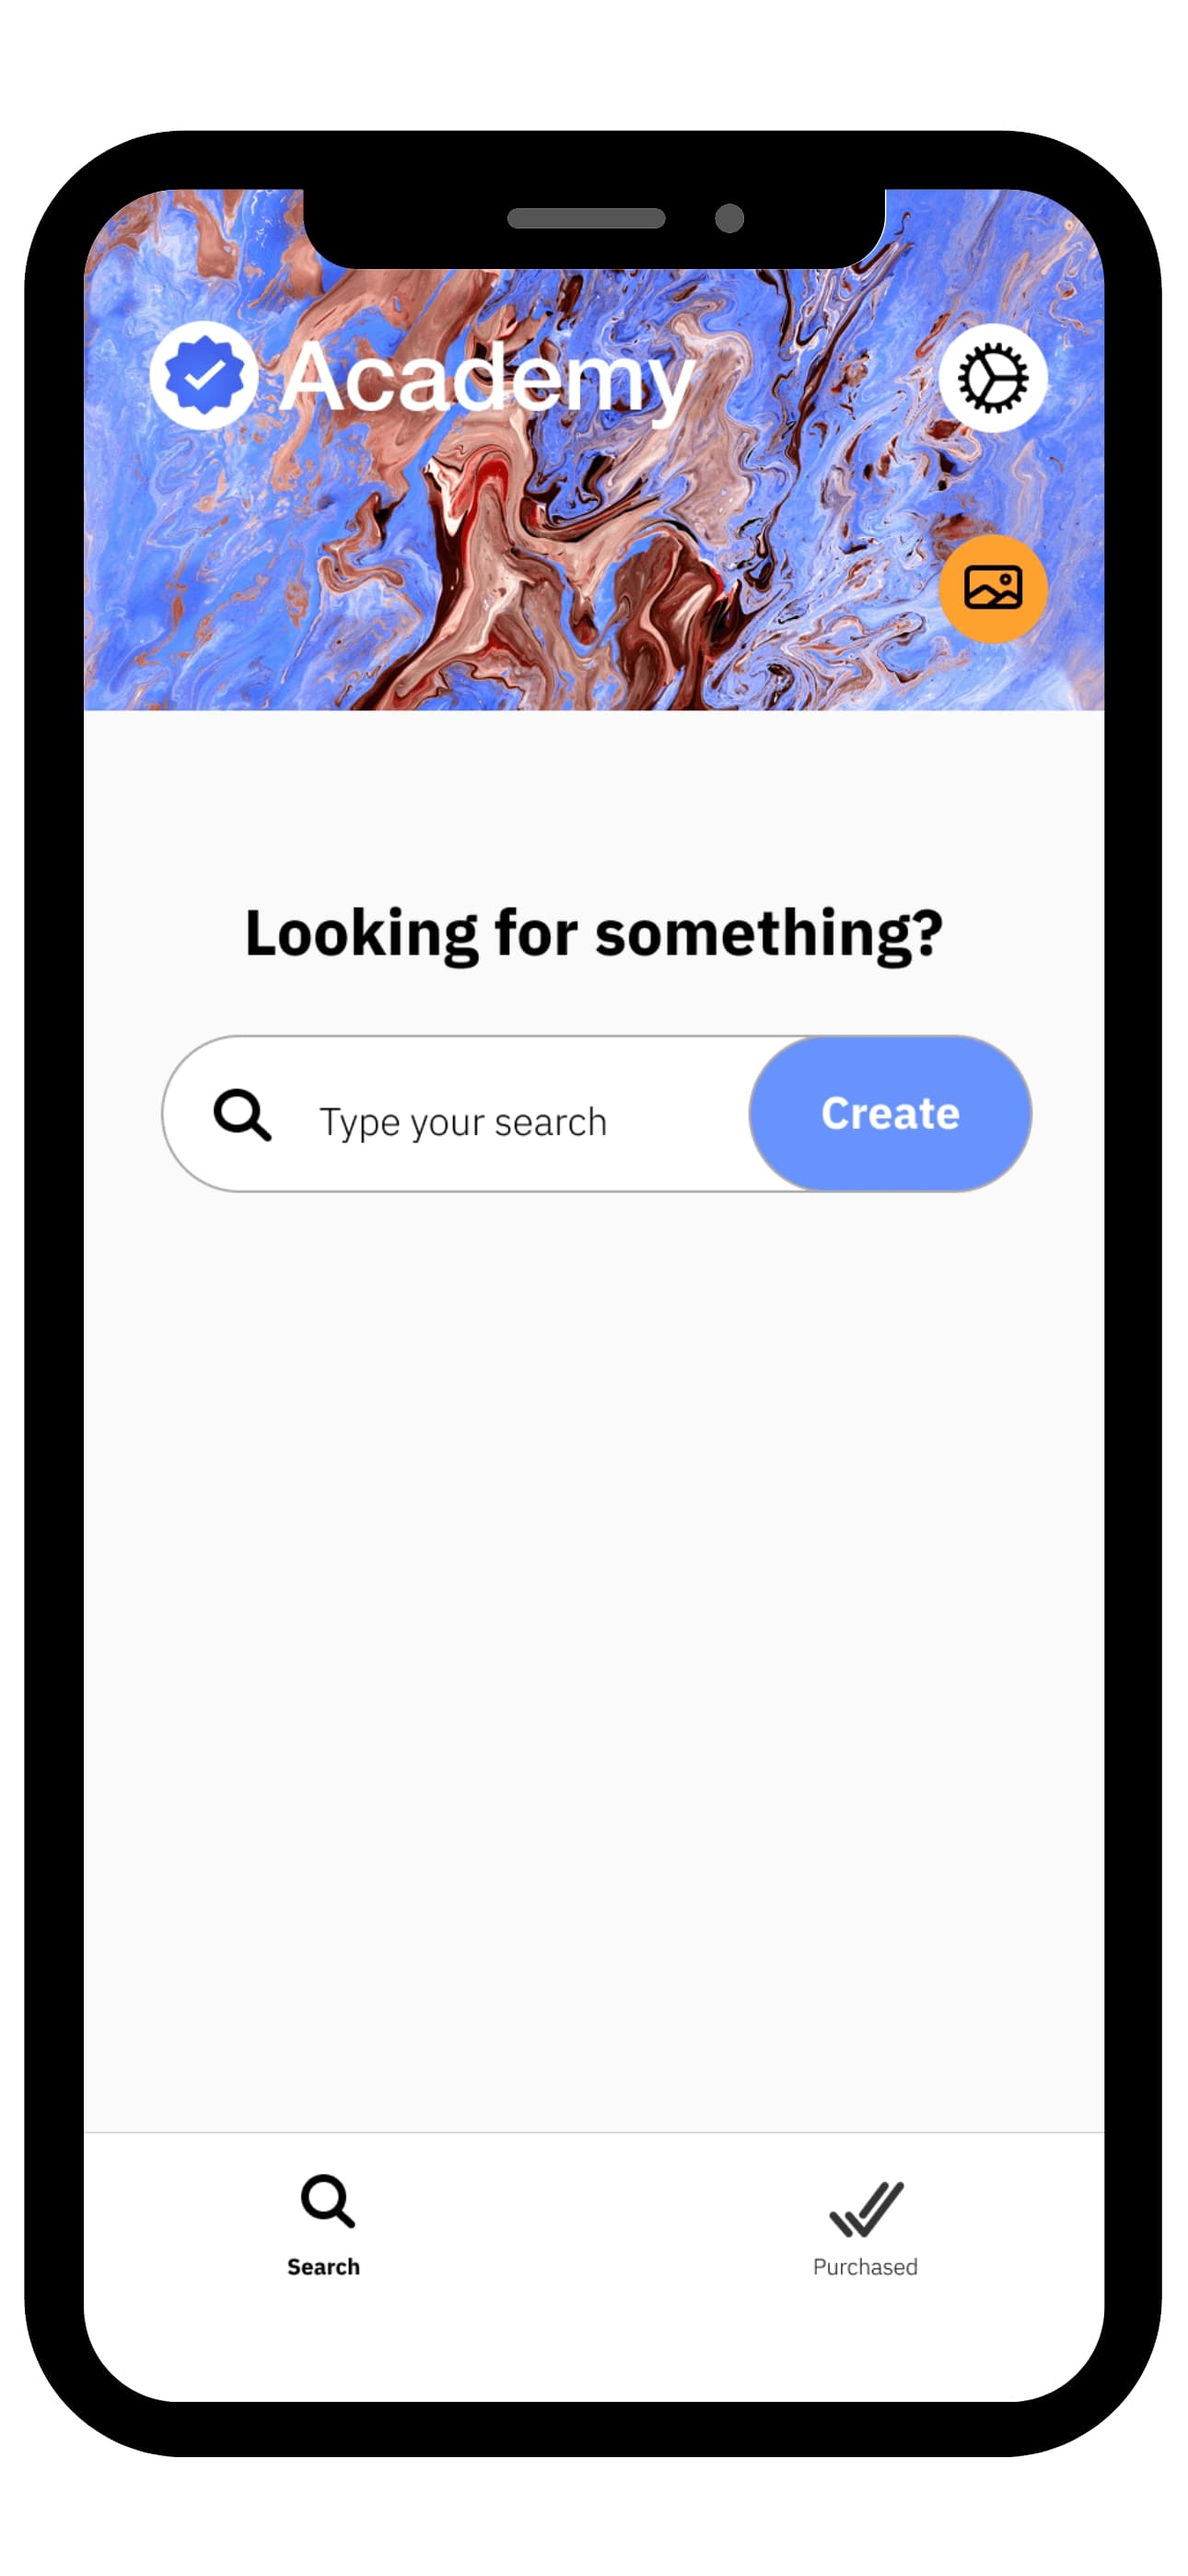
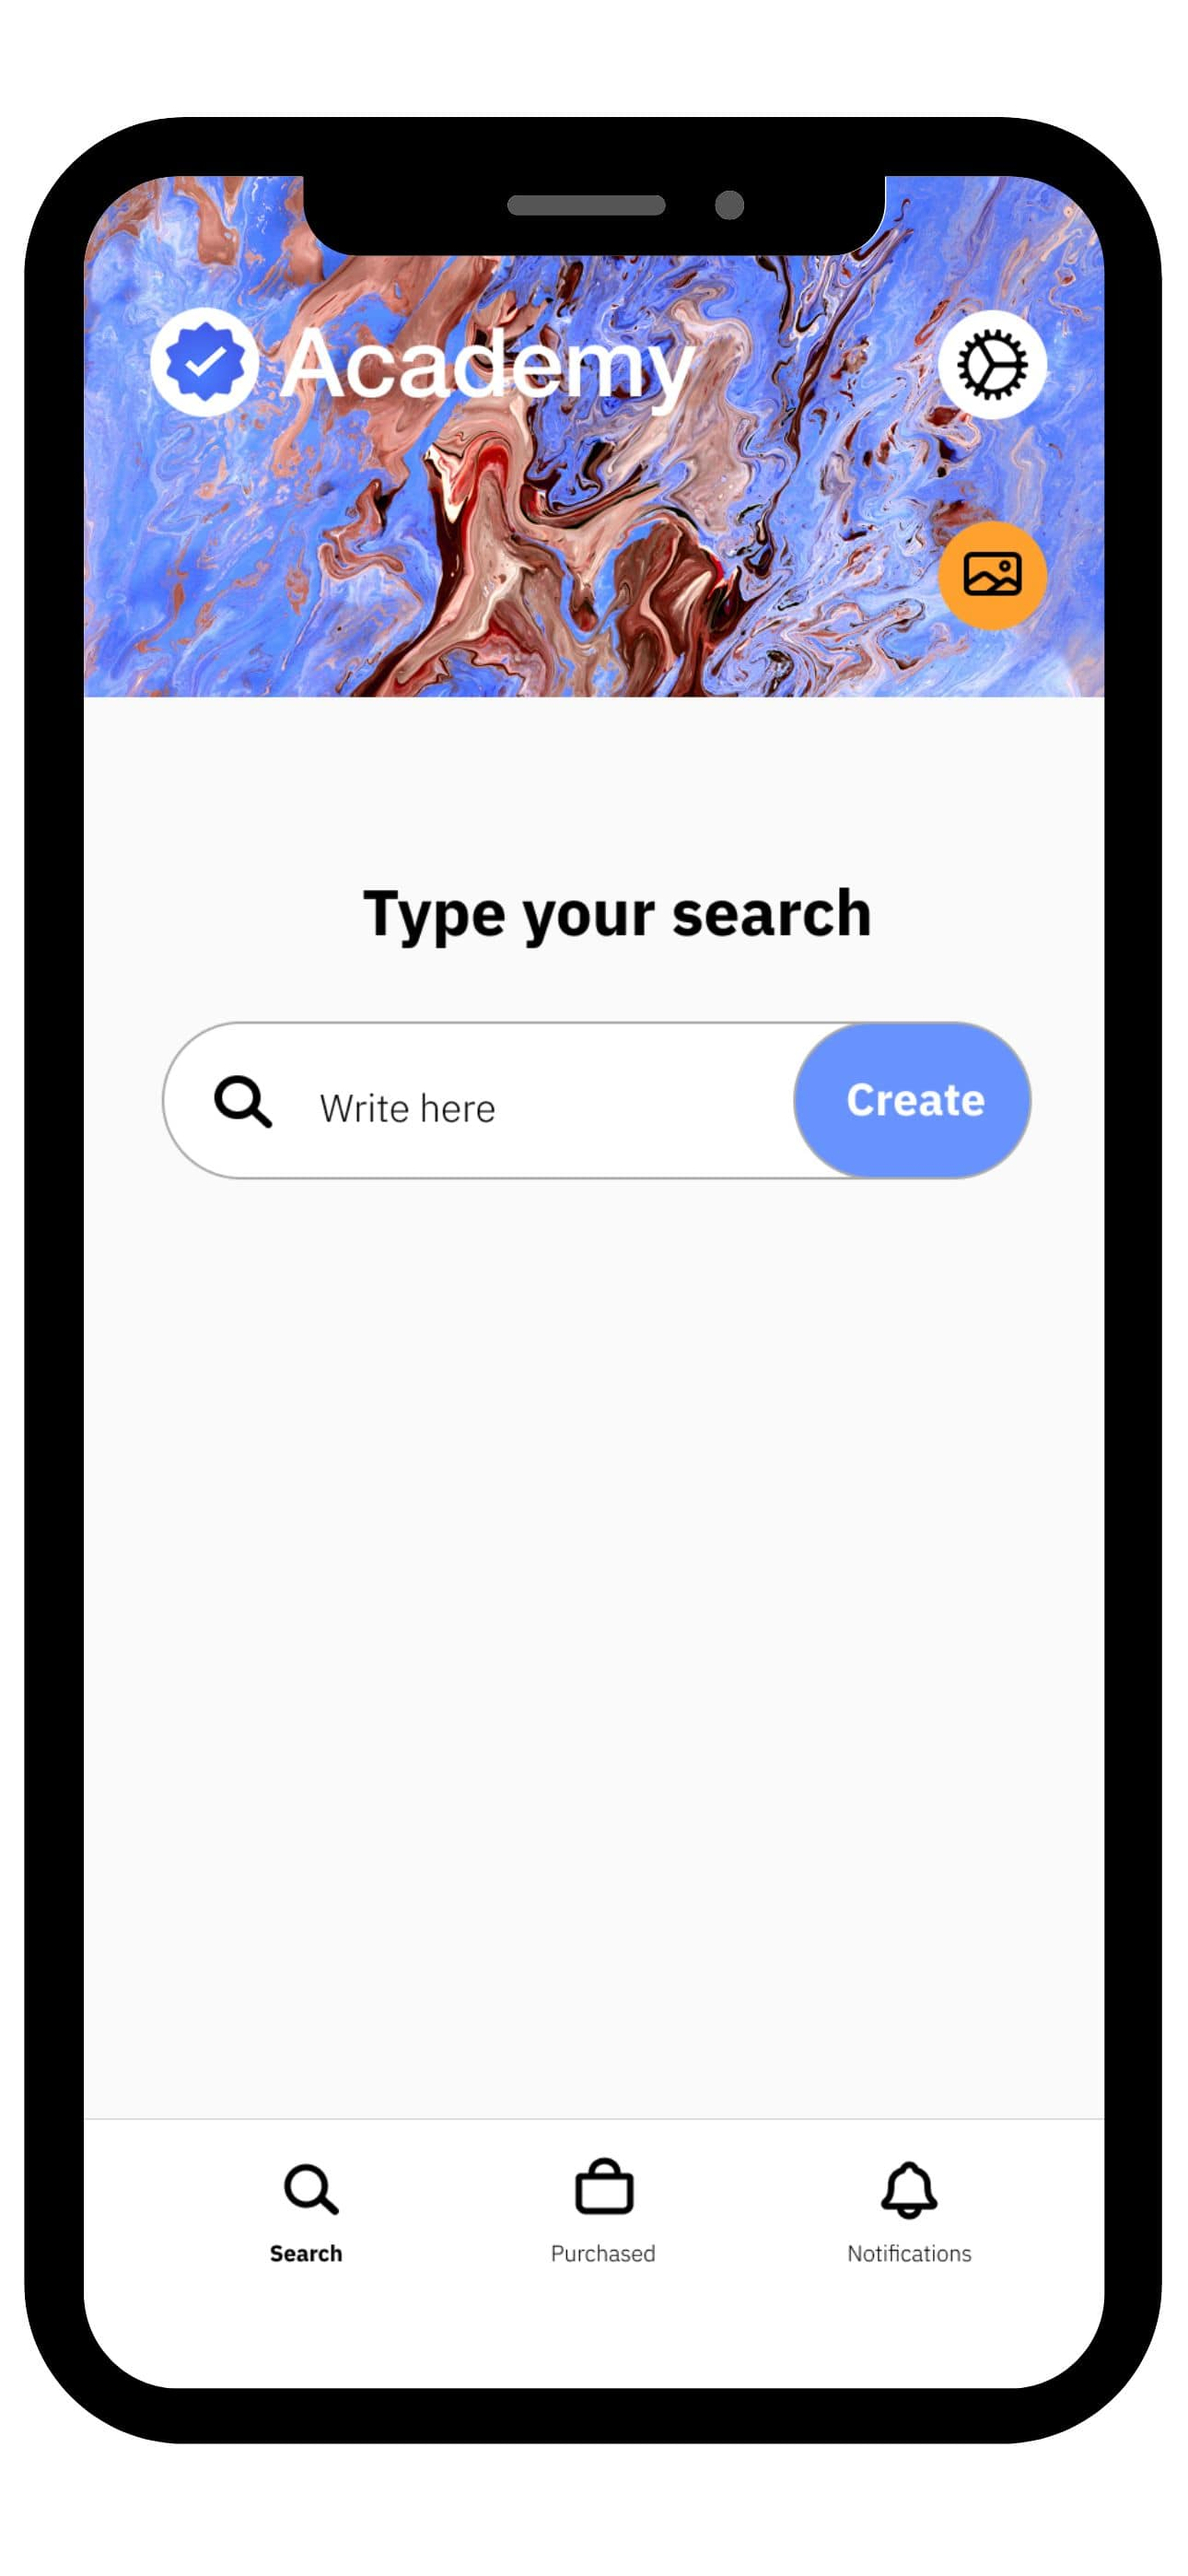
Add files via upload

diff --git a/flutter_service_worker.js b/flutter_service_worker.js
@@ -3,7 +3,7 @@ const MANIFEST = 'flutter-app-manifest';
 const TEMP = 'flutter-temp-cache';
 const CACHE_NAME = 'flutter-app-cache';
 
-const RESOURCES = {"flutter_bootstrap.js": "732920069e8a3c7a34aade70212a7f2a",
+const RESOURCES = {"flutter_bootstrap.js": "9b3d7664db65b0819da0eff7da002cf6",
 "version.json": "54c11320fd133db5d48cce6cfd5909e2",
 "splash/img/light-2x.png": "61a6450933a0e9ba40f6bf5c322592f1",
 "splash/img/dark-4x.png": "d1071a0d14e3db0cb291458e58da4b50",
@@ -13,8 +13,8 @@ const RESOURCES = {"flutter_bootstrap.js": "732920069e8a3c7a34aade70212a7f2a",
 "splash/img/dark-2x.png": "61a6450933a0e9ba40f6bf5c322592f1",
 "splash/img/dark-1x.png": "dea3ea6993fd348ce6c60ff9e20751c4",
 "splash/img/light-1x.png": "dea3ea6993fd348ce6c60ff9e20751c4",
-"index.html": "43d1aa78ac7b39d3c6ee95b0b38e2e10",
-"/": "43d1aa78ac7b39d3c6ee95b0b38e2e10",
+"index.html": "ff66ea8a1359927f8fe9af6f13ecd379",
+"/": "ff66ea8a1359927f8fe9af6f13ecd379",
 "main.dart.js": "971800088dee6cd2a9c4fe26805fb98d",
 "flutter.js": "24bc71911b75b5f8135c949e27a2984e",
 "icons/Icon-192.png": "2423316e3179965e7629fd8037aa1df4",
@@ -44,8 +44,8 @@ const RESOURCES = {"flutter_bootstrap.js": "732920069e8a3c7a34aade70212a7f2a",
 "assets/assets/sounds/end.mp3": "4006227c8c6aa82ac1c9a418ff912c2d",
 "assets/assets/photos/image6.jpg": "e215d324b0edd3a71366702deb1777eb",
 "assets/assets/photos/image4.jpg": "7762770ed1d164e527b089b80cd1d588",
-"assets/assets/photos/image5.jpg": "3eb505d0580287951eaf8031a0d6639a",
-"assets/assets/photos/image1.jpg": "f5eec89328bea3b84c9445041699fa80",
+"assets/assets/photos/image5.jpg": "1ffb6513f1aba65428ccc189d6214877",
+"assets/assets/photos/image1.jpg": "d037d4e289530e0523d017f0ad85c254",
 "assets/assets/photos/image2.jpg": "937386f8f5975b245d1ef631c2afbf4d",
 "assets/assets/photos/image3.jpg": "3d07aaa0d4018a1c61f175d01f641c98",
 "assets/assets/fonts/HelveticaNeue/HelveticaNeueLight.ttf": "0facaae97183b8fede52099930aefd8d",

diff --git a/index.html b/index.html
@@ -29,6 +29,9 @@
 
   <title>Edhomy Academy</title>
   <link rel="manifest" href="manifest.json">
+  
+  
+  <meta content="width=device-width, initial-scale=1.0, maximum-scale=1.0, user-scalable=no" name="viewport">
   <style id="splash-screen-style">
     html {
       height: 100%
@@ -100,7 +103,6 @@
       document.body.style.background = "transparent";
     }
   </script>
-  <meta content="width=device-width, initial-scale=1.0, maximum-scale=1.0, user-scalable=no" name="viewport">
 </head>
 <body>
   <picture id="splash">
@@ -108,6 +110,7 @@
       <source srcset="splash/img/dark-1x.png 1x, splash/img/dark-2x.png 2x, splash/img/dark-3x.png 3x, splash/img/dark-4x.png 4x" media="(prefers-color-scheme: dark)">
       <img class="center" aria-hidden="true" src="splash/img/light-1x.png" alt="">
   </picture>
+  
   <script src="flutter_bootstrap.js" async=""></script>
 
 

diff --git a/flutter_bootstrap.js b/flutter_bootstrap.js
@@ -38,6 +38,6 @@ _flutter.buildConfig = {"engineRevision":"1527ae0ec577a4ef50e65f6fefcfc1326707d9
 
 _flutter.loader.load({
   serviceWorkerSettings: {
-    serviceWorkerVersion: "3040745220"
+    serviceWorkerVersion: "3912083711"
   }
 });
